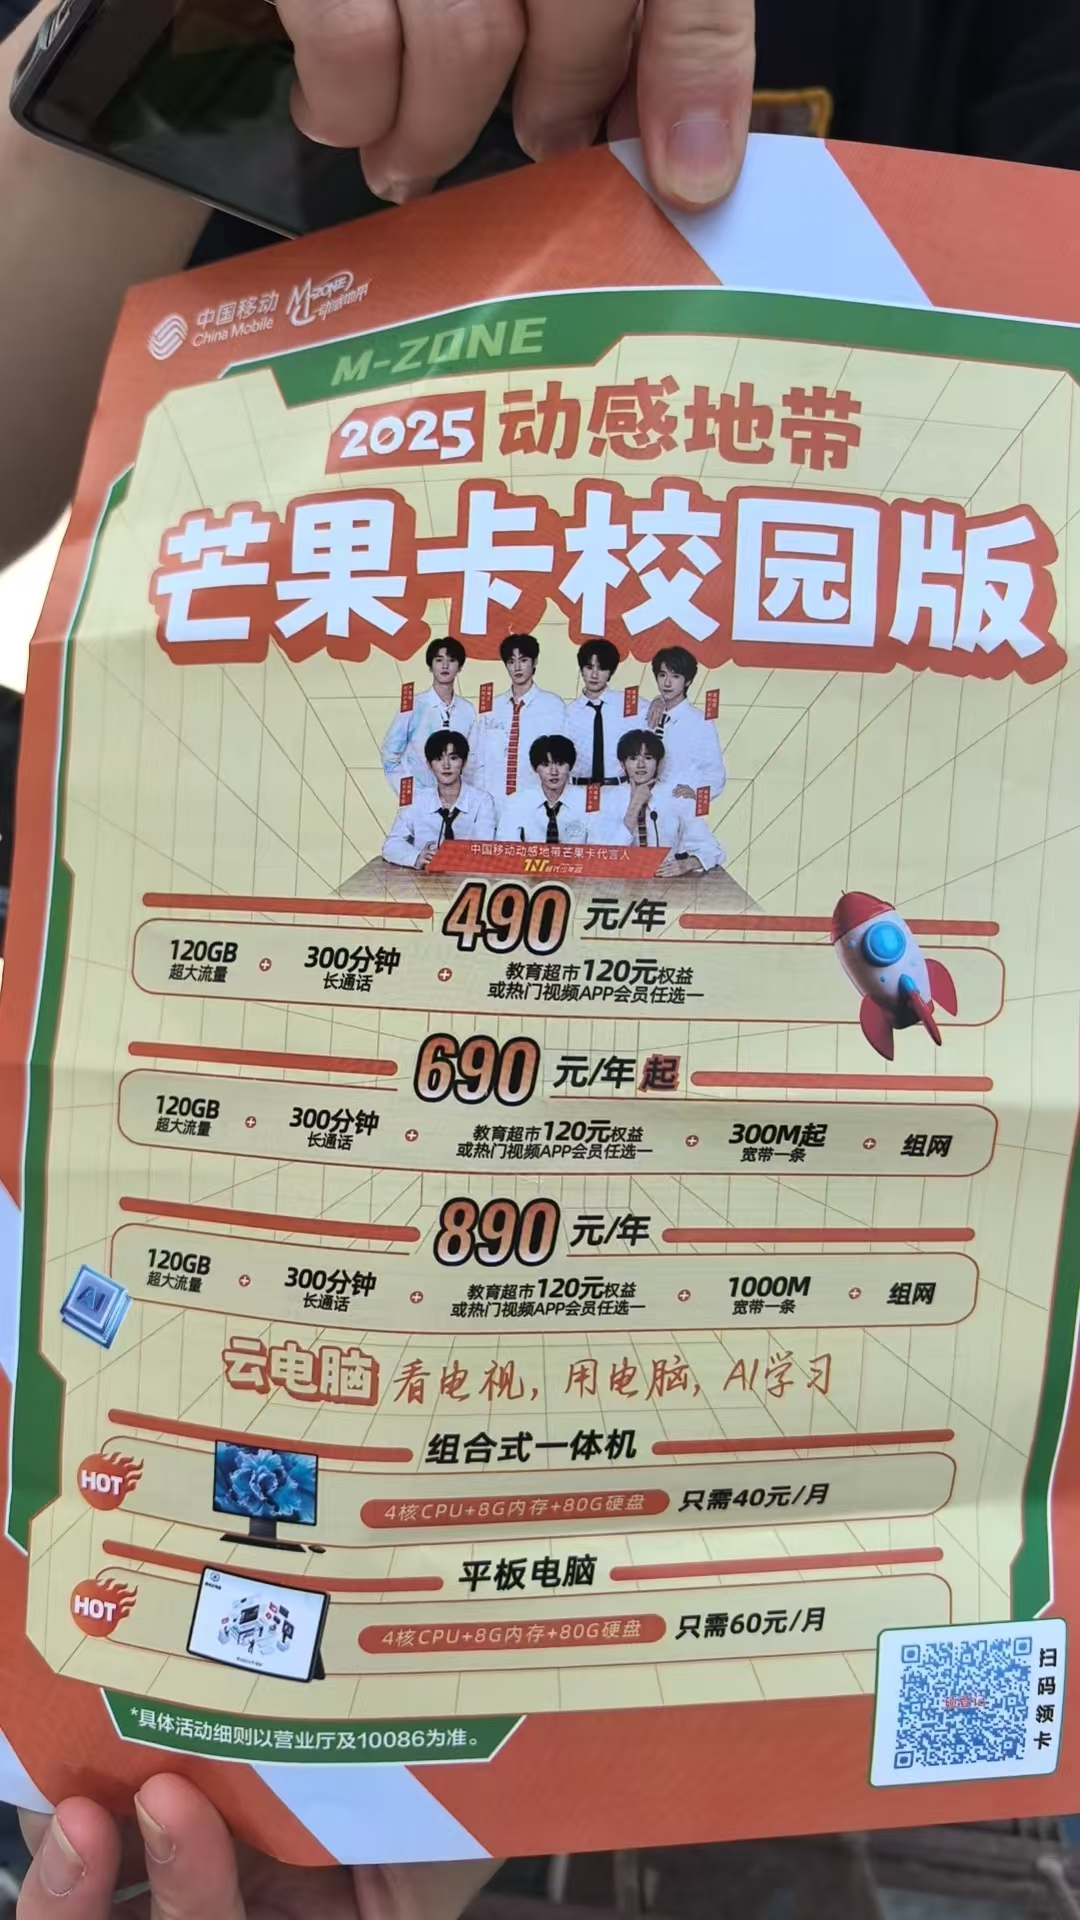
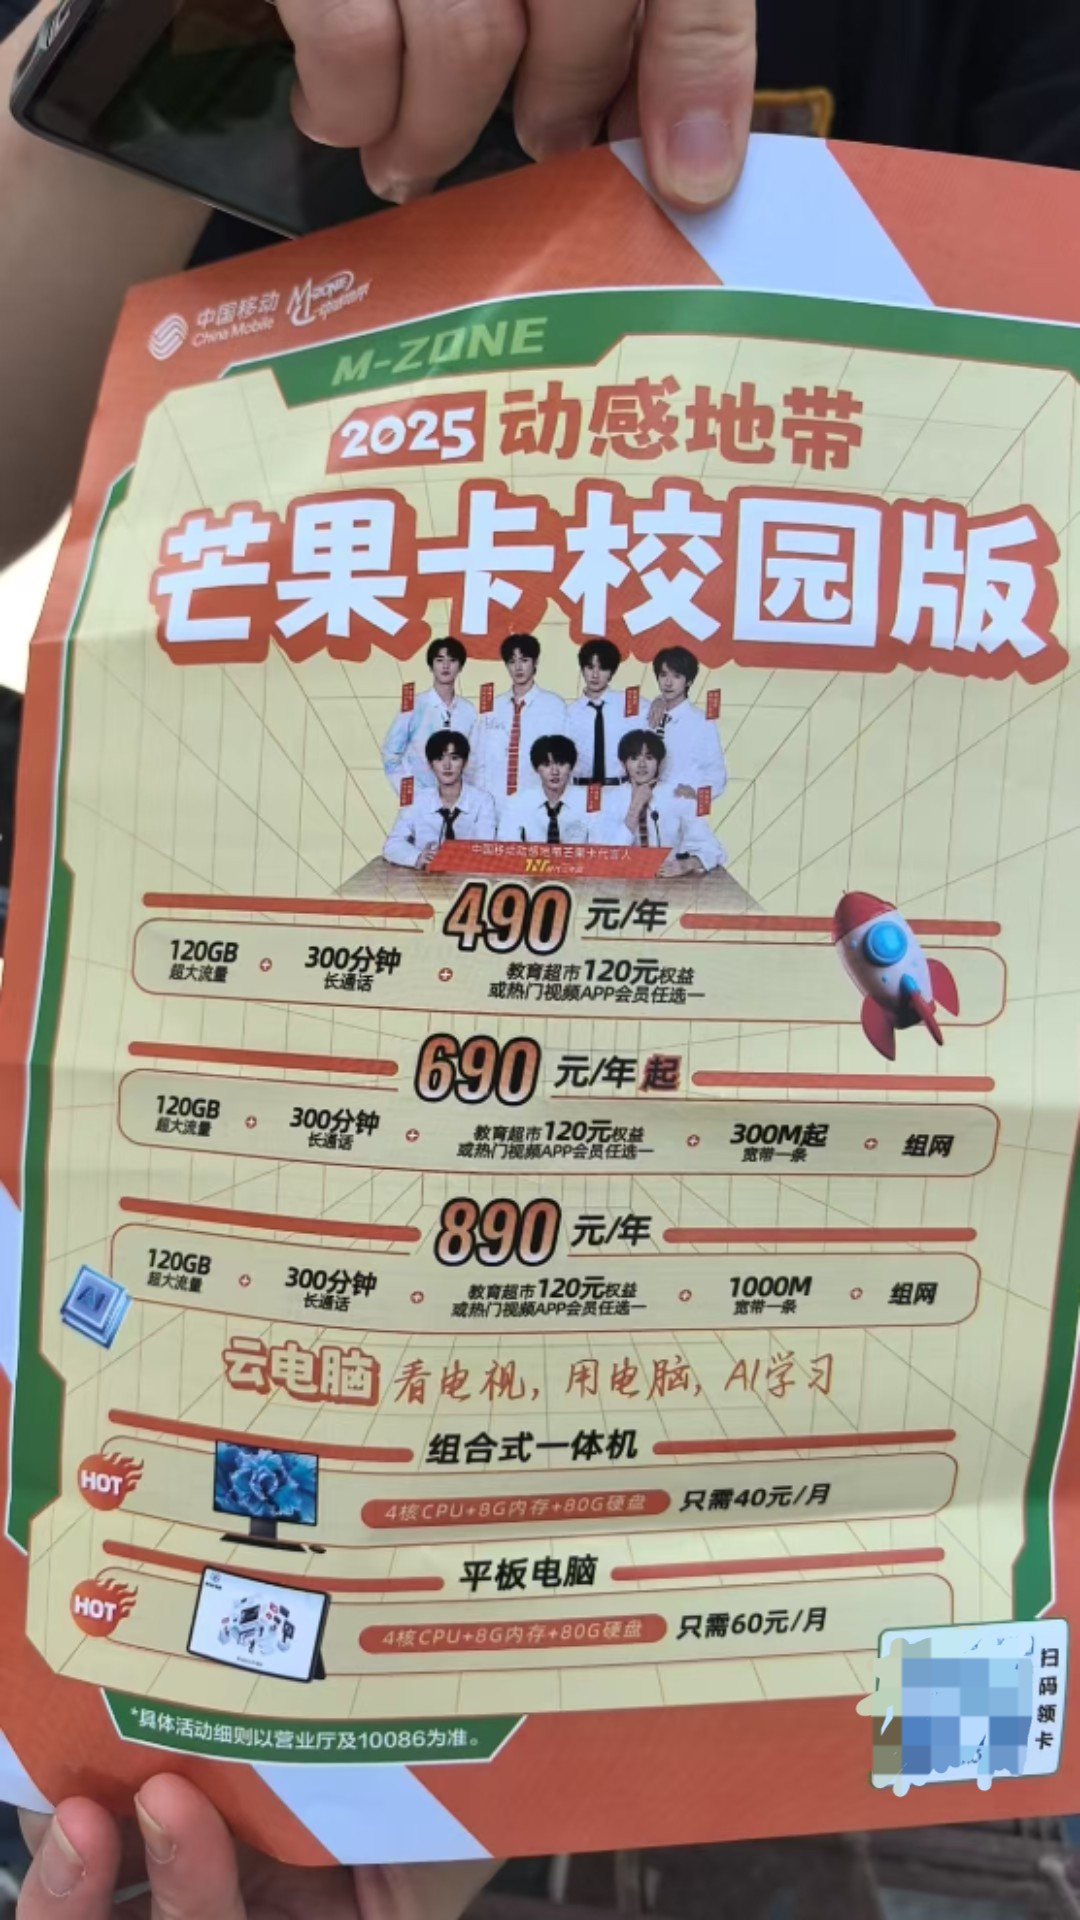
更新

diff --git a/2 - 初来乍到/运营商选择.md b/2 - 初来乍到/运营商选择.md
@@ -95,7 +95,9 @@ A：能
 - 可以添加运营商人员微信，也许有优惠（？
 ![运营商微信.jpg](/assets/运营商微信.jpg)
 
-- 今年的校园卡套餐
+- 今年**应技大**的校园卡套餐，不适用于**上师大**
+
+- 可以加上微信，等待消息
 
 ![校园卡1.jpg](/assets/校园卡1.jpg)
 
